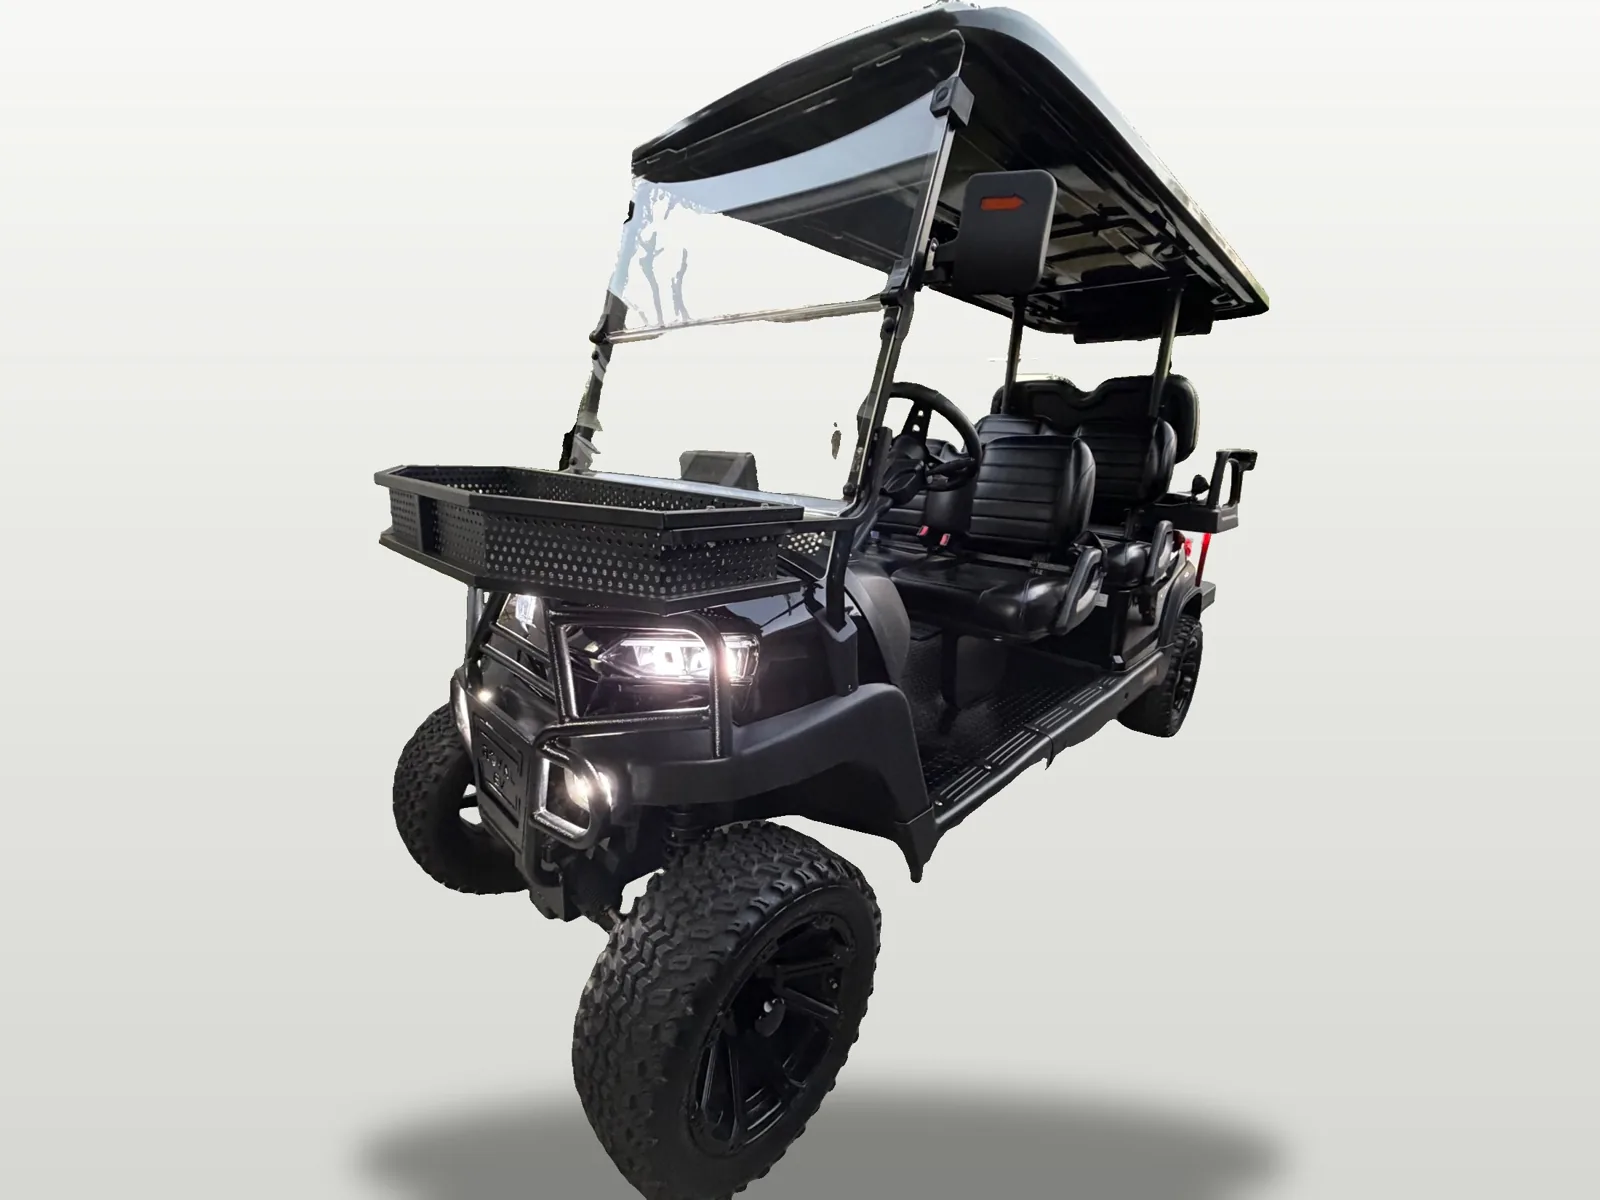
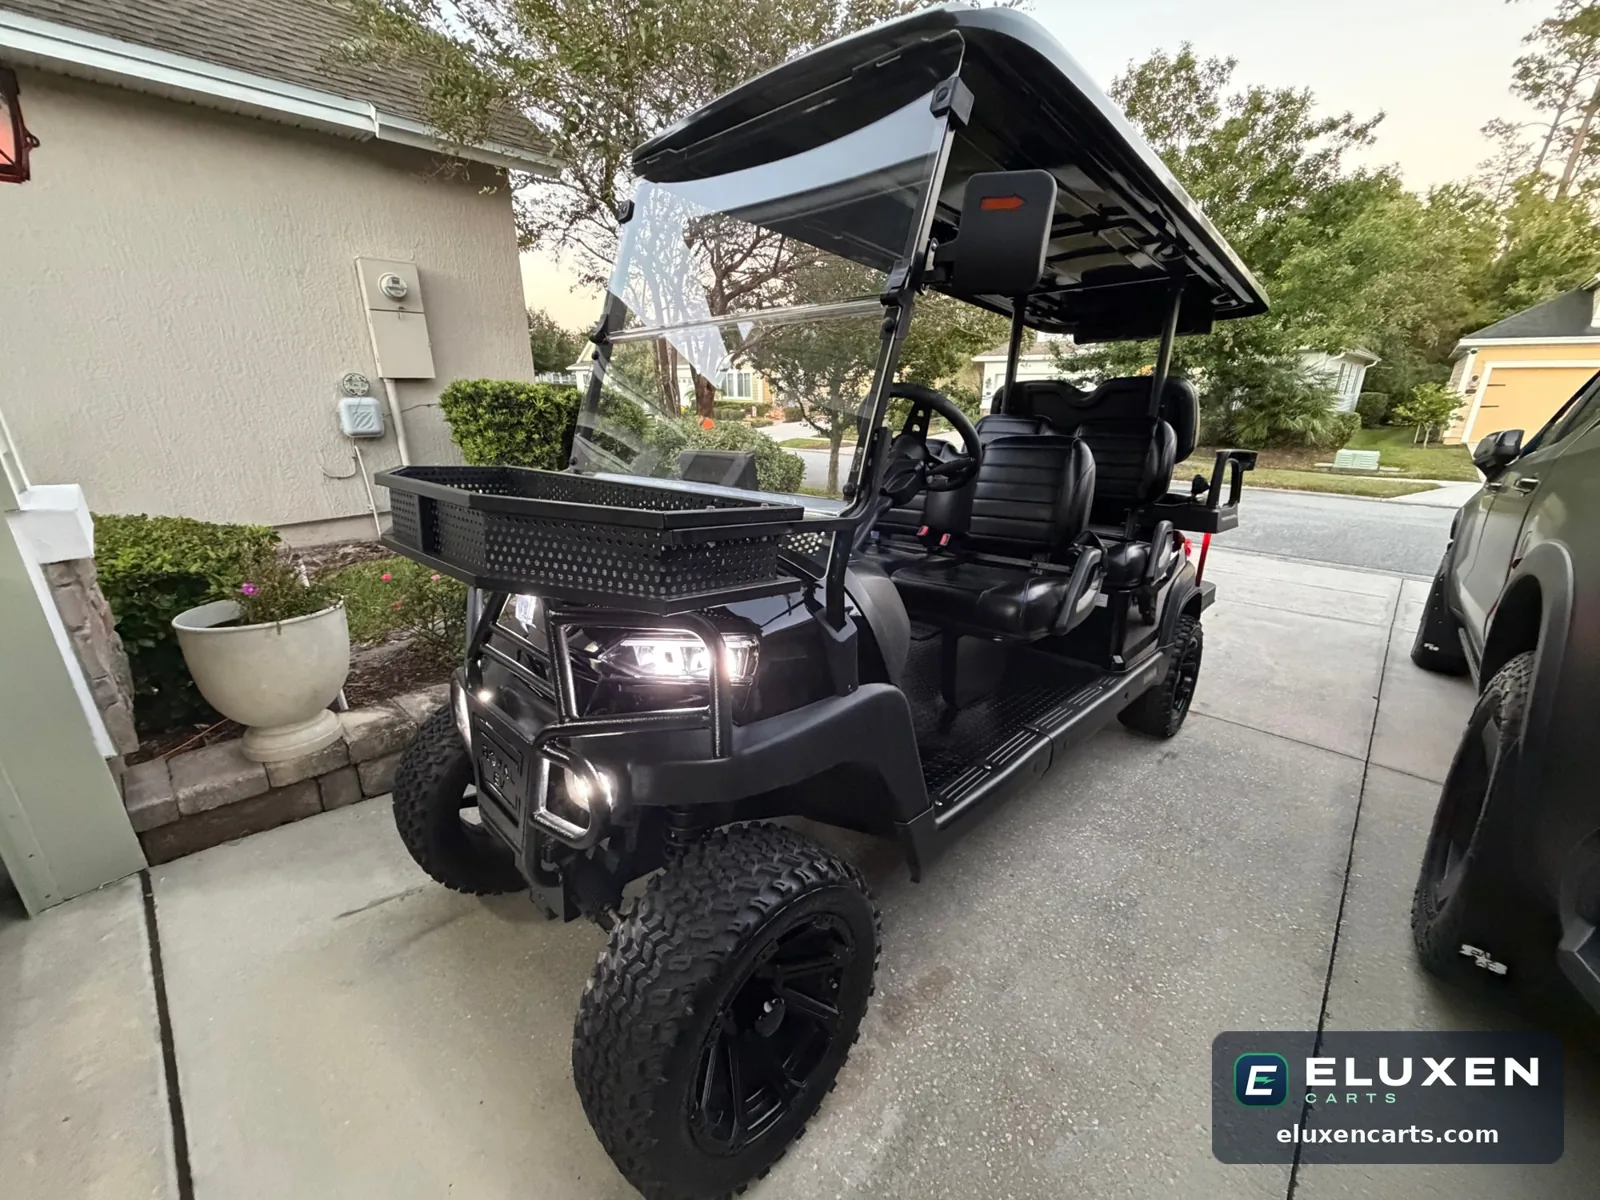
Royal EV: use original branded photos, add side shot
Claude-Session: https://claude.ai/code/session_01CpAz8ePxVe4HB5qD4HEdw7

diff --git a/inventory.js b/inventory.js
@@ -29,6 +29,7 @@ window.INVENTORY = [
     photos: [
       "images/carts/royal-ev-crown-6l-2022.webp",
       "images/carts/royal-ev-crown-6l-2022-front.webp",
+      "images/carts/royal-ev-crown-6l-2022-side.webp",
       "images/carts/royal-ev-crown-6l-2022-rear.webp",
       "images/carts/royal-ev-crown-6l-2022-cockpit.webp",
       "images/carts/royal-ev-crown-6l-2022-dash.webp",

diff --git a/index.html b/index.html
@@ -329,7 +329,7 @@
     <div id="detail-body"></div>
   </dialog>
 
-  <script src="inventory.js?v=20261022c"></script>
+  <script src="inventory.js?v=20261022d"></script>
   <script src="app.js"></script>
 </body>
 </html>
